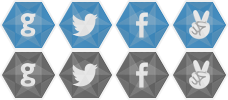
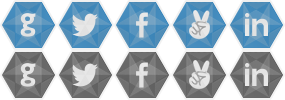
add content

diff --git a/pages/index.html b/pages/index.html
@@ -1,16 +1,21 @@
 {% extends "base.html" %}
 {% block content %}
 
-<div class="section">
+<div class="section blue">
 	<div class="container">
-		<div class="two-third">
+		<div class="three-fifth">
 			<h1>The Truly Open Payments Protocol</h1>
-			<p>Line line line line</p>
-			<p>Line line line line sdmsojko skdo ksodk sodk <a href="#">oskdos</a> kdosk odsko dksod ksod ksodk sodk sodk sokdosk doskd oskdo skdo skodksodk sokd sokd oskdos k</p>
-			<p>Line line line sidjisdj sdi jsid jsid sjid sjdis ijd s line</p>
+			<p>The Hyper Ledger Transaction Protocol (HLTP) is protocol designed from the ground up to enable payments for the internet age. With decentralised nodes running in multiple geographies and jurisdictions, hyperledger provides an amazingly quick, reliable and secure way to record transfers of assets such as digital currencies across the world within seconds, not minutes.</p>
 		</div>
-		<div class="one-third">
-			<p>image</p>
+		<div class="two-fifth">
+		   <div class="pad20">
+		   	<div class="row bullet"><strong>Lightweight</strong> - Designed for simplicity and speed</div>
+			<div class="row bullet"><strong>Open</strong> - Not controlled by a single company</div>
+			<div class="row bullet"><strong>Equal</strong> - No special denominated currency </div>
+			<div class="row bullet"><strong>Fair</strong> - No pre-mining or allocations</div>
+			<div class="row bullet"><strong>Efficient</strong> - No energy intensive proof of work</div>
+			<div class="row bullet"><strong>Fast</strong> - Capable of processing thousands of transactions per second</div>
+		    </div>
 		</div>
 	</div>
 </div>
@@ -32,62 +37,61 @@
 </div>
 <div class="section">
     <div class="container">
-	<h2>Install the Alpha CLI</h3>
-	<code>gem install hyperledger_cli</code>
-	<div class="row">
-	    <div class="one-half"><div class="pad20">
-	        <h3>Create a ledger</h3>
-	        <code>> hyperledger new ledger ‘newcoin’ -url ‘newcoin.com’<br/>
-	        <br/>
-	        New ledger created <br/>
-	        name:        newcoin<br/>
-	        url:        newcoin.com<br/>
-	        id:         4515ecb9b9...<br/>
-	        account:    4e0f1fddb5...</code>
-	    </div></div>
-	    <div class="one-half"><div class="pad20">
-	        <h3>Issue ledger</h3>
-	        <code>> hyperledger issue ‘newcoin’ 20000<br/>
-	        <br/>
-	        20000 units of newcoin issued<br/>
-	        total issued:    20000<br/>
-	        in reserve:    20000</code>
-	    </div></div>
+	<div class="pad20">
+		<h2>Install the Alpha CLI</h3>
+		<code>gem install hyperledger_cli</code>
 	</div>
-	<div class="row">
-	    <div class="one-half"><div class="pad20">
-	        <h3>Create an Account</h3>
-	        <code>> hyperledger new account ‘newcoin’<br/>
-	        <br/>
-	        New account created<br/>
-	        ledger:    newcoin<br/>
-	        id:         0c08722504...<br/>
-	        balance:    0</code>
-	    </div></div>
-	    <div class="one-half"><div class="pad20">
-	        <h3>Make a Transfer</h3>
-	        <code>> hyperledger transfer 1000 4e0f1fddb5... 0c08722504...<br/>
-	        <br/>
-	        Transfer completed<br/>
-	        <br/>
-	        From<br/>
-	        id:        4e0f1fddb5...<br/>
-	        balance:    19000<br/>
-	        <br/>
-	        To<br/>
-	        id:        0c08722504...<br/>
-	        balance:    1000</code>
-	    </div></div>
-	</div>
-	</div>
+    <div class="row">
+        <div class="one-half"><div class="pad20">
+            <h3>Create a ledger</h3>
+            <code>> hyperledger ledger newcoin https://newcoin.com<br/>
+            <br/>
+            New ledger created <br/>
+            name:        newcoin<br/>
+            url:        newcoin.com<br/>
+            id:         4515ecb9b9...<br/>
+            account:    4e0f1fddb5...</code>
+        </div></div>
+        <div class="one-half"><div class="pad20">
+            <h3>Issue Units to a Ledger</h3>
+            <code>> hyperledger issue 20000 newcoin<br/>
+            <br/>
+            20000 units of newcoin issued<br/>
+            total issued:    20000<br/>
+            in reserve:    20000</code>
+        </div></div>
+    </div>
+    <div class="row">
+        <div class="one-half"><div class="pad20">
+            <h3>Create an Account</h3>
+            <code>> hyperledger account register newcoin<br/>
+            <br/>
+            New account created<br/>
+            ledger:    newcoin<br/>
+            id:         0c08722504...<br/>
+            balance:    0</code>
+        </div></div>
+        <div class="one-half"><div class="pad20">
+            <h3>Make a Transfer</h3>
+            <code>> hyperledger transfer 1000 4e0f1fddb5... 0c08722504...<br/>
+            <br/>
+            Transfer completed<br/>
+            <br/>
+            From<br/>
+            id:        4e0f1fddb5...<br/>
+            balance:    19000<br/>
+            <br/>
+            To<br/>
+            id:        0c08722504...<br/>
+            balance:    1000</code>
+        </div></div>
+    </div>
     </div>
 </div>
 <div class="section blue">
     <div class="container">
 		<div class="two-third">
-			<p>Line line line line</p>
-			<p>Line line line line sdmsojko skdo ksodk sodk <a href="#">oskdos</a> kdosk odsko dksod ksod ksodk sodk sodk sokdosk doskd oskdo skdo skodksodk sokd sokd oskdos k</p>
-			<p>Line line line sidjisdj sdi jsid jsid sjid sjdis ijd s line</p>
+			<p>%copy2%</p>
 		</div>
 		<div class="one-third">
 			<p>image</p>
@@ -97,24 +101,38 @@
 <div class="section nopad">
     <div class="container">
 	<div class="team">
+	   <div class="pad20">
 		<img src="/static/img/logo.png" />
 		<h3>The Team</h3>
-		<p></p>
+		<p>hyperledger is a young project with world changing goals. You can help shape the future of the platform and global financial system.</p>
+	    </div>
 	</div>
 	<div class="team">
+	    <div class="pad20">
 		<img src="/static/img/df.jpg" />
 		<h3>Daniel Feichtinger</h3>
-		<p>Daniel is called Daniel. His first name is Daniel, so people call him Daniel. He's been called Daniel all his life.</p>
+		<p>Daniel is the core developer and inventor of the distributed consensus mechanism. He’s passionate about private currencies and computer security.</p>
+		<a href="http://www.linkedin.com/in/danielfeichtinger" class="linkedin social"></a>
+		<a href="https://github.com/DanielFeichtinger" class="github social"></a>
+		<a href="https://twitter.com/auxilit" class="twitter social"></a>
+	    </div>
 	</div>
 	<div class="team">
+	    <div class="pad20">
 		<img src="/static/img/do.jpg" />
 		<h3>Daniel O'Prey</h3>
-		<p>Daniel is called Daniel. His first name is Daniel, so people call him Daniel. He's been called Daniel all his life.</p>
+		<p>Daniel is responsible for marketing and business development. He previously was the founder and CEO of a Sequoia backed cloud startup in China.</p>
+		<a href="http://cn.linkedin.com/in/danoprey/" class="linkedin social"></a>
+		<a href="https://github.com/danoprey" class="github social"></a>
+		<a href="http://twitter.com/danoprey" class="twitter social"></a>
+	    </div>
 	</div>
 	<div class="team last">
+	    <div class="pad20">
 		<img src="/static/img/you.jpg" />
 		<h3>You?</h3>
 		<p>You can contribute to the hyperledger source code on <a href="https://www.github.com/hyperledger">GitHub</a> or email <a href="mailto:contact@hyperledger.org">contact@hyperledger.org</a> to apply to join the team.</p>
+	    </div>
 	</div>
     </div>
 </div>

diff --git a/static/css/style.css b/static/css/style.css
@@ -94,12 +94,19 @@ input[type="text"],
 input[type="email"] {
 	border: 1px solid #E7E7E7;
 }
+.blue h1, .blue h2, .blue h3, .blue h4, .blue h4 {
+	color: rgb(240,240,240);
+	margin-top: 0;
+}
 .blue a {
 	color: #96c8e6;
 	border-bottom: 2px solid #96c8e6;
 }
 .blue a:hover {
 	color: white;
+}
+h1, h2, h3, h4, h5 {
+	margin-top: 0;
 }
 .header {
 }	
@@ -246,6 +253,14 @@ span.brand {
 	float: left;
 	width: 50%;
 }
+.two-fifth {
+	float: left;
+	width: 40%;
+}
+.three-fifth {
+	float: left;
+	width: 60%;
+}
 .col3 {
 	float: left;
 	min-height: 200px;
@@ -276,9 +291,10 @@ code {
 .team {
 	border-left: 1px solid rgb(220,220,220);
 	float: left;
-	padding: 40px;
+	min-height: 455px;
+	padding: 20px 0;
 	text-align: center;
-	width: 200px;
+	width: 24.5%;
 }
 .team.last {
 	border-right: 1px solid rgb(220,220,220);
@@ -292,16 +308,16 @@ code {
 .social-wrapper {
 	float: right;
 }
-.blue .social {
+a.social {
 	background-image: url('/static/img/social.png');
 	border-bottom: none;
 	display: block;
 	float: left;
 	height: 50px;
-	margin-left: 10px;
+	margin-left: 17px;
 	width: 57px;
 }
-.blue .social:hover {
+a.social:hover {
 	background-position-y: -50px;
 }
 .github {
@@ -331,4 +347,11 @@ code {
 }
 .angel:hover {
 	background-position: -171px -50px;
+}
+.linkedin {
+	background-position: -228px 0;
+	background-position-x: -228px;
+}
+.linkedin:hover {
+	background-position: -228px -50px;
 }
